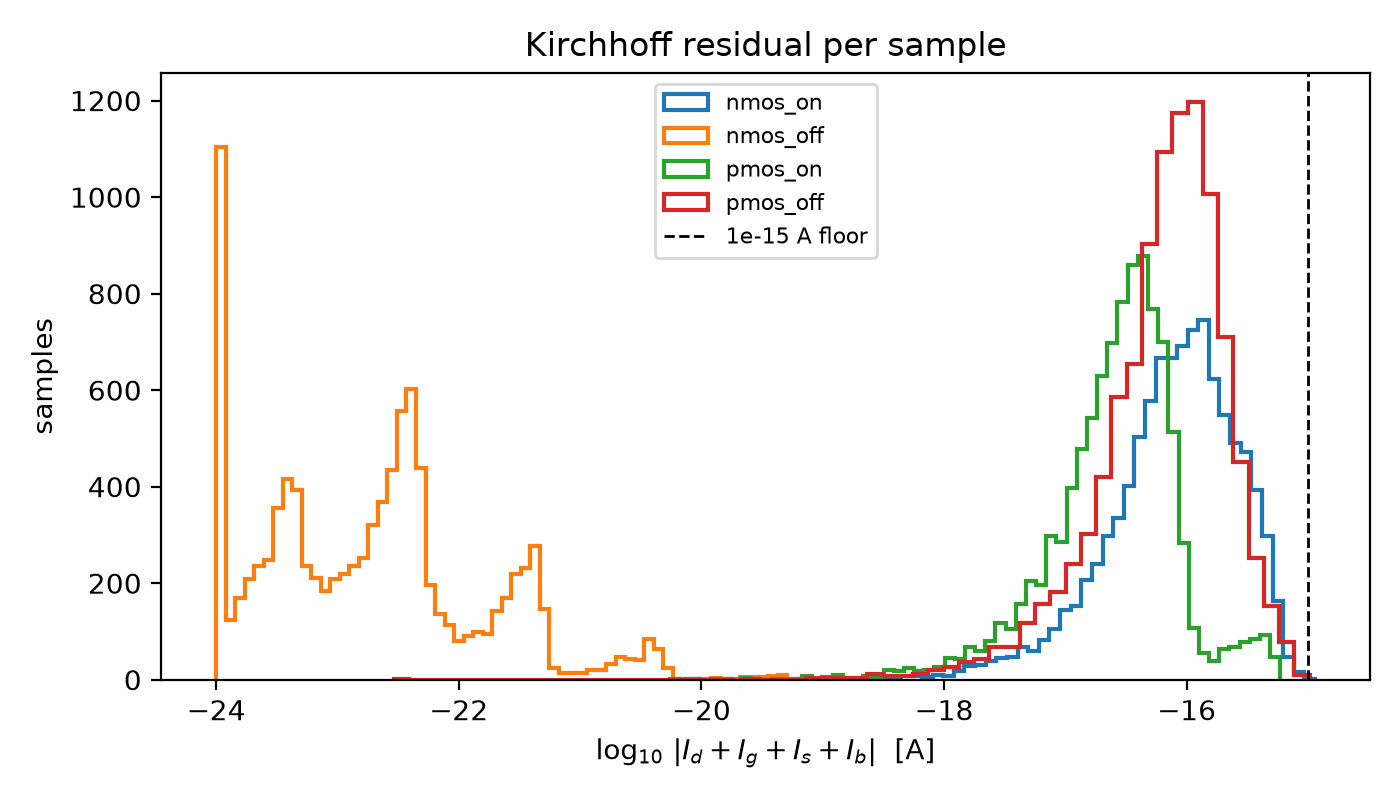
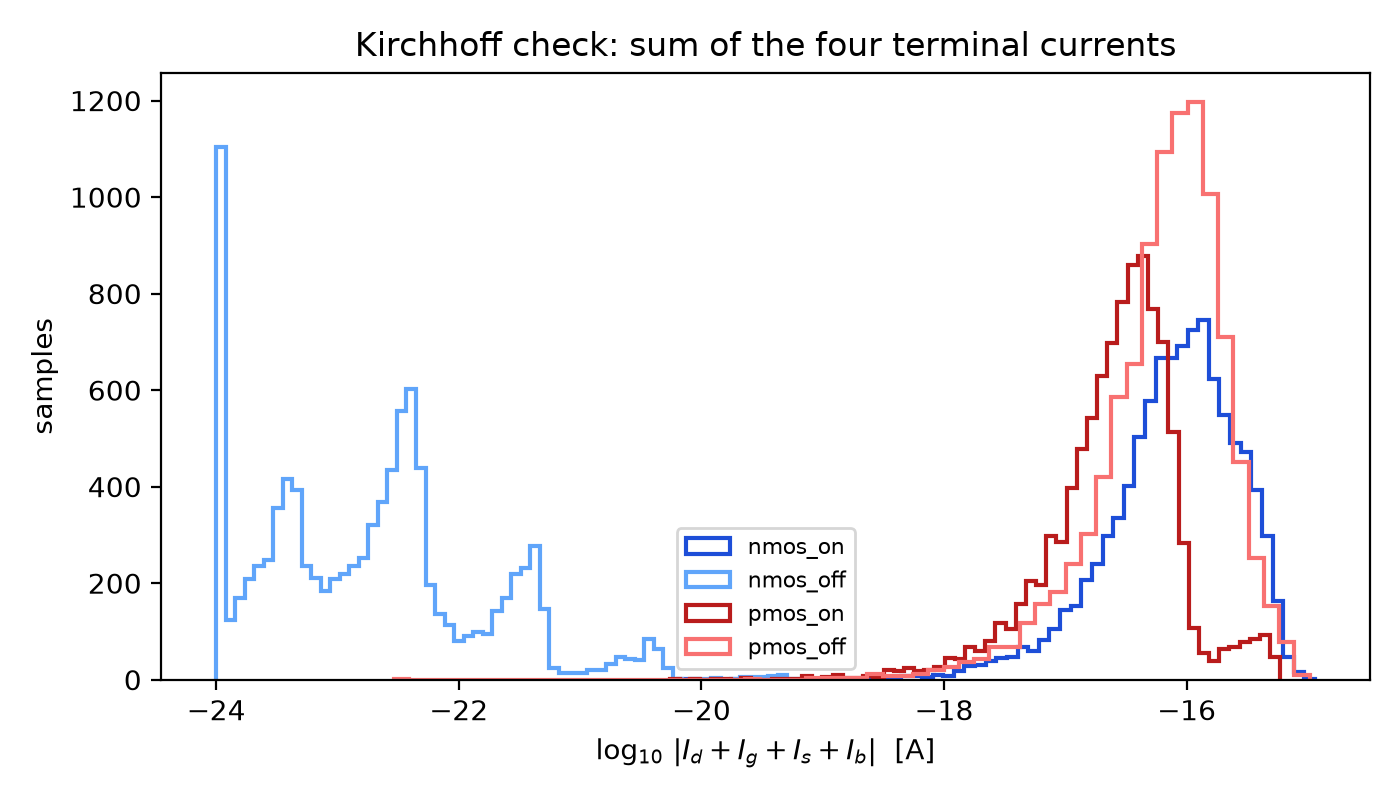
aligned the example netlists and data checks with the spec
- Example netlists: one sample each, plain netlist (no loop or extra settings)
- Kirchhoff check reports only median/max |Id+Ig+Is+Ib| per case (no pass/fail rule)
- Exactly three trend plots of raw dataset values:
  OFF |Id| vs temperature, OFF |Id| vs |vth0|, |Ig| vs toxe (all four cases)
- Remove now-unused nominal_sweep helper and include parameter
- README: correct junction-geometry note (only Ib depends on it) and
  document the ~1e-16 A numerical noise floor
- Datasets unchanged

diff --git a/02_data_checks.py b/02_data_checks.py
@@ -1,14 +1,13 @@
 """Phase 2 (deliverable 3): data check of the four transistor datasets.
 
-1. Kirchhoff check per case: residual |Id + Ig + Is + Ib| (absolute and relative).
-2. Trend plots from the datasets, with a clean nominal SPICE sweep overlaid:
-     a. OFF current vs temperature
-     b. OFF current vs vth0
-     c. gate current vs toxe
-   OFF current = |Id| per unit width of the OFF devices, restricted to samples with
-   |Vds| > VDD/2 so the scatter shows the trend rather than the Vds spread.
+1. Kirchhoff check per case: sum of the four terminal currents, Id + Ig + Is + Ib.
+2. Three trend plots of the dataset values:
+     OFF current (|Id| of nmos_off, pmos_off) vs temperature
+     OFF current (|Id| of nmos_off, pmos_off) vs |vth0|
+     gate current (|Ig| of all four cases) vs toxe
 
-Outputs: results/kcl_check.csv, figures/kcl_residual.png, figures/trend_*.png
+Outputs: results/kcl_check.csv, figures/kcl_residual.png,
+         figures/trend_ioff_vs_temp.png, figures/trend_ioff_vs_vth0.png, figures/trend_ig_vs_toxe.png
 Run:     python 02_data_checks.py
 """
 from __future__ import annotations
@@ -20,36 +19,22 @@ import matplotlib.pyplot as plt
 import numpy as np
 import pandas as pd
 
-from src.config import CASES, DATA_DIR, FIGURES_DIR, RESULTS_DIR, load_config
-from src.sampling import nominal_sweep
-from src.spice import simulate_single_fet
+from src.config import CASES, DATA_DIR, FIGURES_DIR, RESULTS_DIR
 
-ABS_FLOOR = 1e-15   # A, see README "Kirchhoff floor"
-REL_TOL = 1e-6
-COLORS = {"nmos": "#2563eb", "pmos": "#dc2626"}
-
-
-def load(case: str) -> pd.DataFrame:
-    return pd.read_csv(DATA_DIR / "transistor" / f"{case}.csv")
+COLORS = {"nmos_on": "#1d4ed8", "nmos_off": "#60a5fa", "pmos_on": "#b91c1c", "pmos_off": "#f87171"}
 
 
 def kcl_check(data: dict[str, pd.DataFrame]) -> pd.DataFrame:
     rows = []
     fig, ax = plt.subplots(figsize=(7, 4))
     for case, df in data.items():
-        I = df[["id", "ig", "is", "ib"]].to_numpy()
-        resid = np.abs(I.sum(1))
-        rel = resid / np.abs(I).max(1)
-        passed = resid <= np.maximum(REL_TOL * np.abs(I).max(1), ABS_FLOOR)
-        rows.append({"case": case, "n": len(df),
-                     "median_abs_residual_A": np.median(resid), "max_abs_residual_A": resid.max(),
-                     "median_rel_residual": np.median(rel), "p95_rel_residual": np.quantile(rel, 0.95),
-                     "pass_fraction": passed.mean()})
-        ax.hist(np.log10(np.maximum(resid, 1e-24)), bins=60, histtype="step", lw=1.5, label=case)
-    ax.axvline(np.log10(ABS_FLOOR), color="k", ls="--", lw=1, label="1e-15 A floor")
+        resid = np.abs(df[["id", "ig", "is", "ib"]].sum(axis=1).to_numpy())
+        rows.append({"case": case, "median_abs_sum_A": np.median(resid), "max_abs_sum_A": resid.max()})
+        ax.hist(np.log10(np.maximum(resid, 1e-24)), bins=60, histtype="step", lw=1.5,
+                color=COLORS[case], label=case)
     ax.set_xlabel(r"$\log_{10}\,|I_d+I_g+I_s+I_b|$  [A]")
     ax.set_ylabel("samples")
-    ax.set_title("Kirchhoff residual per sample")
+    ax.set_title("Kirchhoff check: sum of the four terminal currents")
     ax.legend(fontsize=8)
     fig.tight_layout()
     fig.savefig(FIGURES_DIR / "kcl_residual.png", dpi=200)
@@ -57,66 +42,38 @@ def kcl_check(data: dict[str, pd.DataFrame]) -> pd.DataFrame:
     return pd.DataFrame(rows)
 
 
-def binned_median(x: np.ndarray, y: np.ndarray, bins: int = 15):
-    edges = np.linspace(x.min(), x.max(), bins + 1)
-    idx = np.clip(np.digitize(x, edges) - 1, 0, bins - 1)
-    centers = 0.5 * (edges[1:] + edges[:-1])
-    med = np.array([np.median(y[idx == i]) if np.any(idx == i) else np.nan for i in range(bins)])
-    return centers, med
-
-
-def trend_plot(cfg, data, *, cases, x, y, xlabel, ylabel, title, fname, xscale=1.0, filt=None):
+def trend_plot(data, cases, x, y, xlabel, ylabel, title, fname):
     fig, ax = plt.subplots(figsize=(7, 4.5))
     for case in cases:
-        dev = CASES[case]["dev"]
-        df = data[case]
-        if filt is not None:
-            df = df[filt(df)]
-        xv = df[x].to_numpy() * xscale
-        yv = np.abs(df[y].to_numpy()) / df.w.to_numpy() * 1e-6   # A per um of width
-        ax.scatter(xv, yv, s=3, alpha=0.15, color=COLORS[dev], rasterized=True)
-        cx, my = binned_median(xv, yv)
-        ax.plot(cx, my, color=COLORS[dev], lw=2, label=f"{case}: dataset (binned median)")
-
-        lo, hi = data[case][x].min(), data[case][x].max()
-        sweep = simulate_single_fet(case, nominal_sweep(case, x, np.linspace(lo, hi, 25), cfg), cfg)
-        ax.plot(sweep[x] * xscale, np.abs(sweep[y]) / sweep.w * 1e-6, color=COLORS[dev], ls="--", lw=1.5,
-                label=f"{case}: SPICE sweep, rest nominal")
+        ax.scatter(np.abs(data[case][x]), np.abs(data[case][y]), s=3, alpha=0.3,
+                   color=COLORS[case], label=case, rasterized=True)
     ax.set_yscale("log")
     ax.set_xlabel(xlabel)
     ax.set_ylabel(ylabel)
     ax.set_title(title)
     ax.grid(alpha=0.3, which="both")
-    ax.legend(fontsize=8)
+    ax.legend(fontsize=8, markerscale=4)
     fig.tight_layout()
     fig.savefig(FIGURES_DIR / fname, dpi=200)
     plt.close(fig)
 
 
 def main() -> None:
-    cfg = load_config()
     FIGURES_DIR.mkdir(exist_ok=True)
     RESULTS_DIR.mkdir(exist_ok=True)
-    data = {case: load(case) for case in CASES}
+    data = {case: pd.read_csv(DATA_DIR / "transistor" / f"{case}.csv") for case in CASES}
 
     kcl = kcl_check(data)
     kcl.to_csv(RESULTS_DIR / "kcl_check.csv", index=False)
-    print("Kirchhoff check")
     print(kcl.to_string(index=False, float_format=lambda v: f"{v:.2e}"))
 
-    big_vds = lambda df: np.abs(df.vd - df.vs) > 0.5 * df.vdd
-    trend_plot(cfg, data, cases=["nmos_off", "pmos_off"], x="temp", y="id", filt=big_vds,
-               xlabel="Temperature [°C]", ylabel=r"OFF current $|I_d|/W$  [A/µm]",
-               title=f"OFF current vs temperature ({cfg.model_path.stem})", fname="trend_ioff_vs_temp.png")
-    for case in ["nmos_off", "pmos_off"]:   # vth0 differs in sign/scale per device -> one plot each
-        trend_plot(cfg, data, cases=[case], x="vth0", y="id", filt=big_vds,
-                   xlabel=r"$v_{th0}$ [V]", ylabel=r"OFF current $|I_d|/W$  [A/µm]",
-                   title=f"OFF current vs vth0, {case} ({cfg.model_path.stem})",
-                   fname=f"trend_ioff_vs_vth0_{case}.png")
-    trend_plot(cfg, data, cases=["nmos_on", "pmos_on"], x="toxe", y="ig", xscale=1e9,
-               xlabel=r"$t_{oxe}$ [nm]", ylabel=r"Gate current $|I_g|/W$  [A/µm]",
-               title=f"Gate current vs toxe, ON devices ({cfg.model_path.stem})", fname="trend_ig_vs_toxe.png")
-    print(f"\nFigures written to {FIGURES_DIR.relative_to(FIGURES_DIR.parent)}/")
+    off = ["nmos_off", "pmos_off"]
+    trend_plot(data, off, "temp", "id", "Temperature [°C]", r"OFF current $|I_d|$ [A]",
+               "OFF current vs temperature", "trend_ioff_vs_temp.png")
+    trend_plot(data, off, "vth0", "id", r"$|v_{th0}|$ [V]", r"OFF current $|I_d|$ [A]",
+               "OFF current vs vth0", "trend_ioff_vs_vth0.png")
+    trend_plot(data, list(CASES), "toxe", "ig", r"$t_{oxe}$ [m]", r"Gate current $|I_g|$ [A]",
+               "Gate current vs toxe", "trend_ig_vs_toxe.png")
 
 
 if __name__ == "__main__":

diff --git a/src/spice.py b/src/spice.py
@@ -76,8 +76,24 @@ def header(title: str, cfg: Config, include: str | None = None) -> str:
 # Single-transistor characterisation (Part A)
 # ---------------------------------------------------------------------------
 
-def single_fet_netlist(case: str, samples: pd.DataFrame, cfg: Config,
-                       include: str | None = None) -> str:
+def example_netlist(case: str, row: pd.Series, cfg: Config, include: str) -> str:
+    """Deliverable 2: a plain single-transistor netlist for one sample (one .op point)."""
+    dev = CASES[case]["dev"]
+    lines = [header(f"{case}: single {dev.upper()}, one sample", cfg, include) + f".temp {row.temp:.6g}",
+             "",
+             mos_line("M1", "d", "g", "s", "b", dev, row.w, cfg),
+             f"Vd d 0 dc {row.vd:.6g}",
+             f"Vg g 0 dc {row.vg:.6g}",
+             f"Vs s 0 dc {row.vs:.6g}",
+             f"Vb b 0 dc {row.vb:.6g}",
+             "",
+             ".control"]
+    lines += altermod_lines(dev, {p: row[p] for p in cfg["sampling"]["process_params"]})
+    lines += ["op", "print i(Vd) i(Vg) i(Vs) i(Vb)", ".endc", ".end", ""]
+    return "\n".join(lines)
+
+
+def single_fet_netlist(case: str, samples: pd.DataFrame, cfg: Config) -> str:
     """One netlist that simulates every row of `samples` as a separate .op point.
 
     Every terminal has its own voltage source (spec netlist requirement).
@@ -86,7 +102,7 @@ def single_fet_netlist(case: str, samples: pd.DataFrame, cfg: Config,
     """
     dev = CASES[case]["dev"]
     first = samples.iloc[0]
-    lines = [header(f"single {dev.upper()} characterisation, case {case}", cfg, include),
+    lines = [header(f"single {dev.upper()} characterisation, case {case}", cfg),
              mos_line("M1", "d", "g", "s", "b", dev, first.w, cfg),
              "Vd d 0 0", "Vg g 0 0", "Vs s 0 0", "Vb b 0 0",
              ".control", "set noaskquit", f"set numdgt={cfg['spice']['numdgt']}"]

diff --git a/01_gen_transistor_data.py b/01_gen_transistor_data.py
@@ -6,7 +6,7 @@ one in ngspice and store inputs + terminal currents (current INTO each terminal)
 
 Outputs
   data/transistor/<case>.csv          deliverable 1 (columns in spec order)
-  netlists/transistor/<case>.cir      deliverable 2 (example netlist, first 3 samples)
+  netlists/transistor/<case>.cir      deliverable 2 (example netlist, first sample)
   data/transistor/metadata.json       simulator version, seeds, timing
 
 Run:  python 01_gen_transistor_data.py            (all cases, N from config.yaml)
@@ -23,7 +23,7 @@ import numpy as np
 
 from src.config import CASES, CSV_COLUMNS, DATA_DIR, NETLIST_DIR, ROOT, load_config
 from src.sampling import sample_transistor_inputs
-from src.spice import ngspice_version, simulate_single_fet, single_fet_netlist
+from src.spice import example_netlist, ngspice_version, simulate_single_fet
 
 
 def main() -> None:
@@ -53,7 +53,7 @@ def main() -> None:
 
         rel_include = Path("..") / ".." / cfg.model_path.relative_to(ROOT)
         (netlist_dir / f"{case}.cir").write_text(
-            single_fet_netlist(case, samples.head(3), cfg, include=str(rel_include)))
+            example_netlist(case, samples.iloc[0], cfg, include=str(rel_include)))
 
         I = df[["id", "ig", "is", "ib"]].to_numpy()
         resid = np.abs(I.sum(1))

diff --git a/src/sampling.py b/src/sampling.py
@@ -36,18 +36,3 @@ def sample_transistor_inputs(case: str, n: int, cfg: Config, rng: np.random.Gene
         df[p] = v
     return df
 
-
-def nominal_sweep(case: str, column: str, values, cfg: Config, w_lmin: float = 2.0) -> pd.DataFrame:
-    """Rows at nominal conditions (VDD_nom, 27 C, W = w_lmin*Lmin, nominal process, full VDD
-    across the channel in the conducting direction) with one column swept over `values`."""
-    spec = CASES[case]
-    dev, vdd = spec["dev"], cfg.vdd_nominal
-    n = len(values)
-    df = pd.DataFrame({"vdd": [vdd] * n, "temp": 27.0, "w": w_lmin * cfg.lmin,
-                       "vd": vdd if dev == "nmos" else 0.0, "vs": 0.0 if dev == "nmos" else vdd,
-                       "vg": vdd if spec["vg"] == "vdd" else 0.0,
-                       "vb": vdd if spec["vb"] == "vdd" else 0.0})
-    for p in cfg["sampling"]["process_params"]:
-        df[p] = cfg.nominal[dev][p]
-    df[column] = np.asarray(values, dtype=float)
-    return df

diff --git a/README.md b/README.md
@@ -64,7 +64,8 @@ data/ netlists/ results/ figures/ saved_models/ report/   generated outputs
 - **Current sign:** every stored current is the current flowing *into* the device terminal
   (`I = -i(Vsource)` in ngspice).
 - **Junction geometry:** `AD = AS = W·Ldiff`, `PD = PS = 2(W + Ldiff)`, `Ldiff = 2·Lmin`
-  (as in the TA example netlist), and the same rule in every netlist. Without it, body/junction leakage is close to zero.
+  (`Ldiff` is defined in the TA example netlist), and the same rule in every netlist. Only Ib depends on it
+  (measured on NMOS OFF, W = 64 nm: Ib = 3.3e-17 A with geometry vs 1.0e-14 A without; Id, Ig, Is unchanged).
 - **ngspice `altermod` pitfall:** a multi-parameter line such as `altermod nmos vth0=.. toxe=..`
   applies **only the first** parameter and silently ignores the rest. The code emits one
   `altermod` per parameter. A sensitivity test confirmed that each of the five process parameters
@@ -72,6 +73,8 @@ data/ netlists/ results/ figures/ saved_models/ report/   generated outputs
 - **Kirchhoff floor:** the PTM cards enable the gate and substrate resistance networks
   (`rgatemod=1`, `rbodymod=1`). With them on, ngspice's BSIM4 shows a residual `|ΣI|` of about 1e-16 A,
   whatever the bias. With both off, the residual is 1e-31 A. The card is used unmodified, and the
-  Kirchhoff check passes when `|ΣI| ≤ max(1e-6·max|I|, 1e-15 A)`.
+  Kirchhoff check reports the median and max `|Id+Ig+Is+Ib|` per case.
+  Currents below about 1e-15 A carry the same ~1e-16 A numerical noise, so they differ slightly
+  between equivalent netlists.
 - **Netlist options** (spec): `.options gmin=1e-18 abstol=1e-18 reltol=1e-6 vntol=1e-9`.
   The TA example netlist (`reference/22n_NMOS_ON.net`) uses older options and is kept only for reference.
